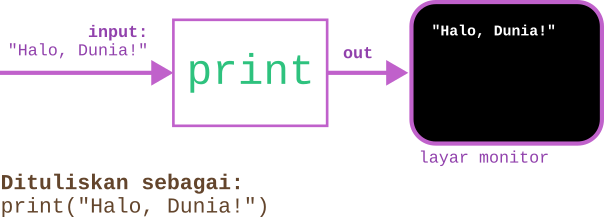
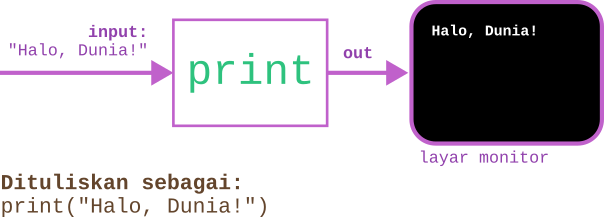
adding extra space before and after images and remove quotation in figure

Changed region(s): [[0.7152, 0.1106, 0.9238, 0.1659]]

diff --git a/docs/modul1.md b/docs/modul1.md
@@ -25,8 +25,9 @@ Program pertama kita terdiri dari komponen-komponen berikut.
 1. tanda kutip `""`;
 1. teks `Halo, Dunia!`
 
-
+<br> <br>
 ![Bagian-bagian kode dalam program pertama, Halo, Dunia!](https://raw.githubusercontent.com/ismailrusli/modul_alpro/refs/heads/master/gambar/halo_dunia.png)
+<br> <br>
 
 Kata `print` dalam program pertama kita adalah sebuah fungsi.
 Dalam pemrograman, sebuah fungsi adalah bagian dari kode yang punya tugas tertentu.
@@ -39,5 +40,6 @@ Dalam contoh kita, yang diinputkan ke fungsi `print` adalah kata `Halo, Dunia!`.
 Kata `Halo, Dunia!` harus dituliskan memakai petik untuk menunjukkan bahwa
 input ke dalam `print` adalah teks (string) atau kumpulan karakter.
 
-
+<br><br>
 ![Anatomi fungsi dalam Python](https://raw.githubusercontent.com/ismailrusli/modul_alpro/refs/heads/master/gambar/blok_print.png)
+<br><br>
